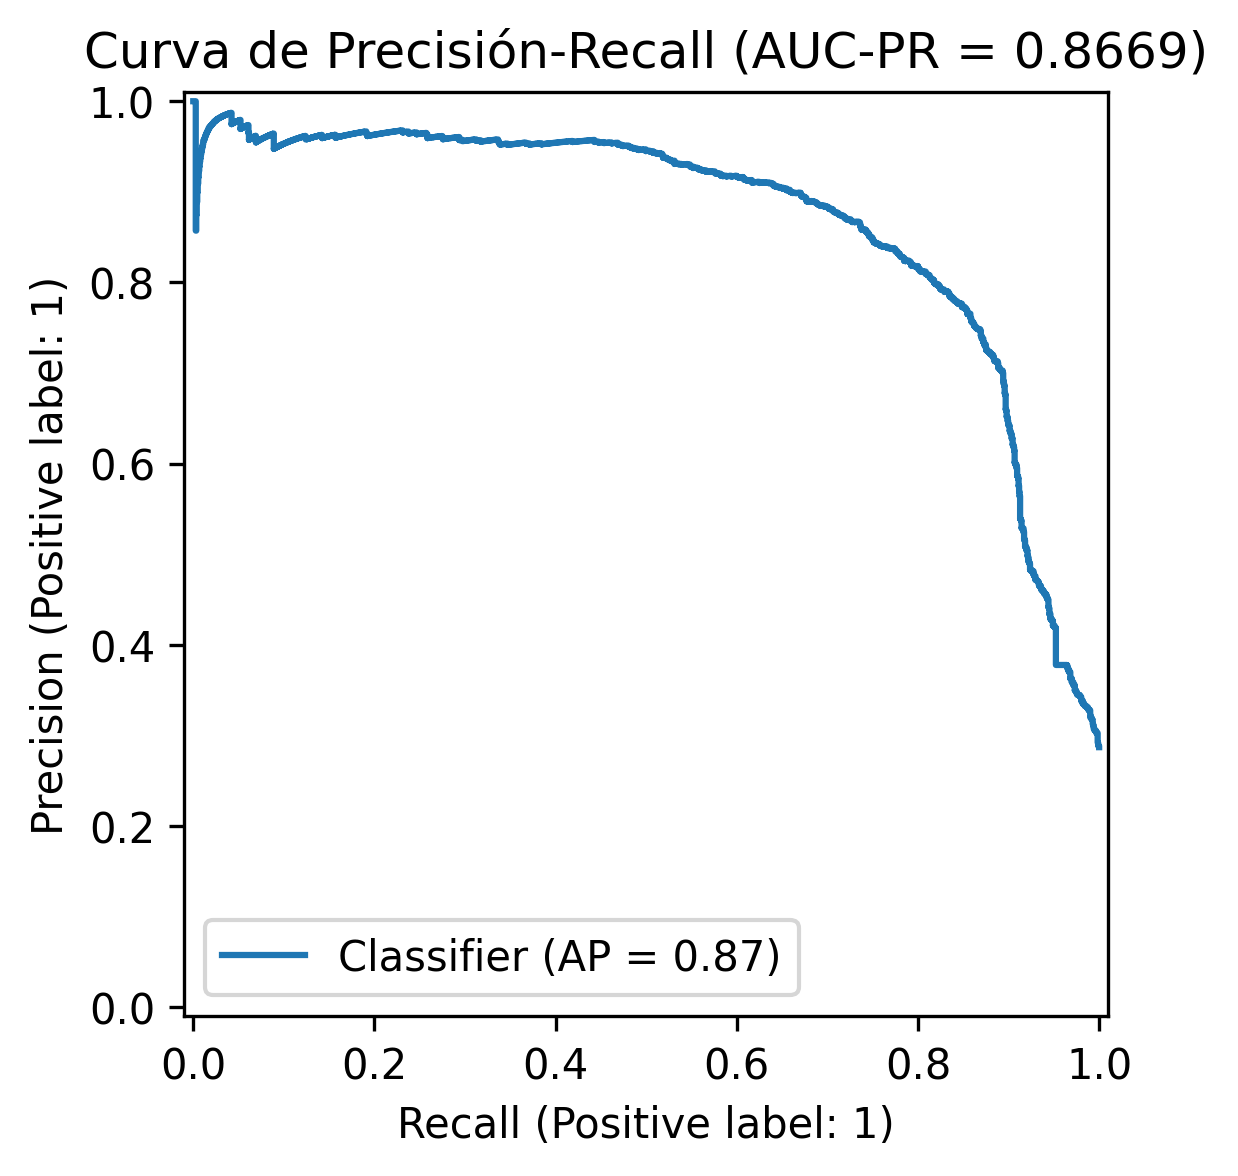
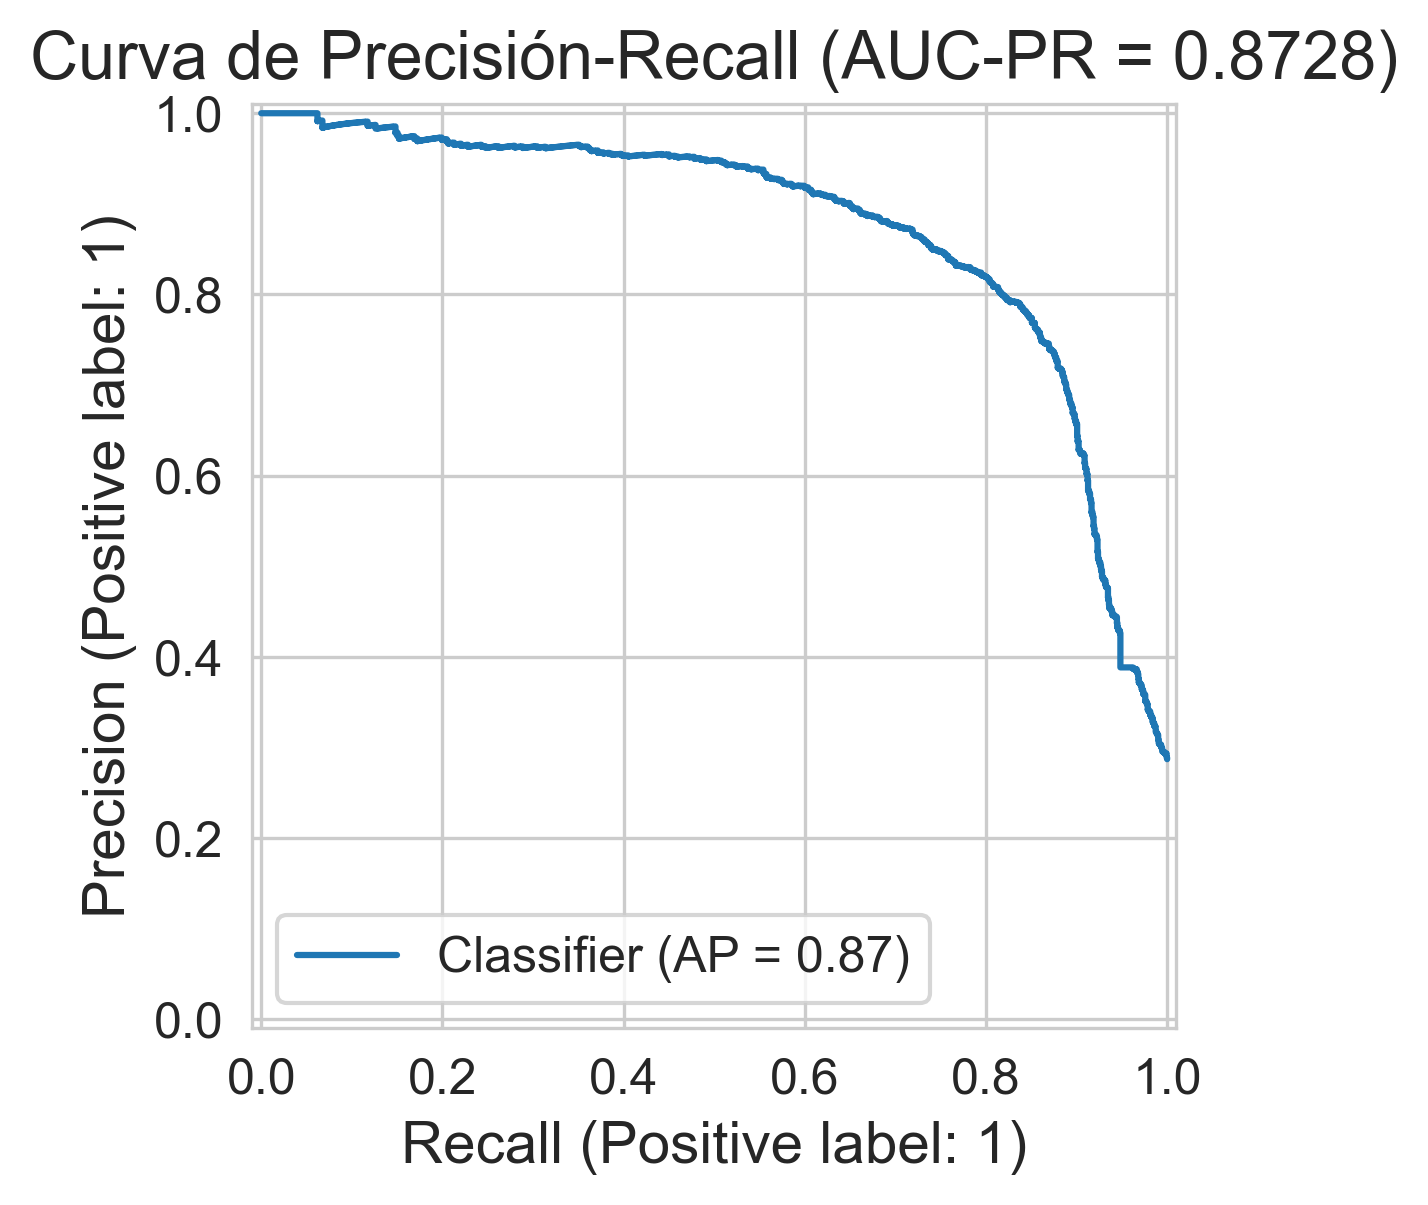
graphs

diff --git a/4. Graficos.py b/4. Graficos.py
@@ -1,0 +1,311 @@
+# 1. Importaciones
+import numpy as np
+import pandas as pd
+import matplotlib.pyplot as plt
+import seaborn as sns
+
+from sklearn.model_selection import train_test_split
+from sklearn.preprocessing import QuantileTransformer
+from sklearn.decomposition import PCA
+from sklearn.metrics import (
+    average_precision_score, confusion_matrix, classification_report,
+    PrecisionRecallDisplay, precision_recall_curve, f1_score, recall_score, precision_score,
+    RocCurveDisplay, roc_auc_score, roc_curve, auc,
+)
+
+
+import tensorflow as tf
+import tensorflow.keras.backend as K
+from tensorflow.keras.models import Sequential
+from tensorflow.keras.layers import Dense, Dropout, BatchNormalization, Activation
+from tensorflow.keras.optimizers import Adam, RMSprop, SGD, Nadam
+
+from imblearn.combine import SMOTETomek
+
+# 2. Configuración Inicial y Datos
+tf.random.set_seed(42)
+np.random.seed(42)
+
+url = 'https://raw.githubusercontent.com/julihdez36/Predictive-maintenance/refs/heads/main/Data/df_entrenamiento_final.csv'
+df_final = pd.read_csv(url)
+X = df_final.drop(columns=['failed'])
+y = df_final['failed']
+
+X_train_full, X_test, y_train_full, y_test = train_test_split(X, y, test_size=0.2, stratify=y, random_state=42)
+
+# 3. Funciones de Preprocesamiento y PCA
+def preprocesar_datos_con_pca(X_train_scaled, y_train, pca, aplicar_smote=False):
+    X_train_reducido = pca.transform(X_train_scaled)
+    if aplicar_smote:
+        smote_tomek = SMOTETomek(sampling_strategy=1, random_state=42)
+        X_train_reducido, y_train_bal = smote_tomek.fit_resample(X_train_reducido, y_train)
+    else:
+        y_train_bal = y_train
+    return X_train_reducido, y_train_bal
+
+def entrenar_pca(X_train_scaled, variance_threshold=0.95):
+    pca = PCA(n_components=variance_threshold, random_state=42)
+    pca.fit(X_train_scaled)
+    return pca
+
+# 4. Callback OneCycleLR (igual que en Parte 1)
+class OneCycleLR(tf.keras.callbacks.Callback):
+    def __init__(self, max_lr, epochs, start_lr=None, end_lr=None):
+        super(OneCycleLR, self).__init__()
+        self.epochs = epochs
+        self.max_lr = max_lr
+        self.start_lr = start_lr if start_lr is not None else max_lr / 10.0
+        self.end_lr = end_lr if end_lr is not None else self.start_lr / 100.0
+
+    def on_epoch_begin(self, epoch, logs=None):
+        if epoch < self.epochs * 0.3:
+            lr = self.start_lr + (self.max_lr - self.start_lr) * (epoch / (self.epochs * 0.3))
+        else:
+            lr = self.max_lr - (self.max_lr - self.end_lr) * ((epoch - self.epochs * 0.3) / (self.epochs * 0.7))
+        if hasattr(self.model.optimizer.learning_rate, 'assign'):
+            self.model.optimizer.learning_rate.assign(lr)
+        else:
+            tf.keras.backend.set_value(self.model.optimizer.learning_rate, lr)
+        print(f"\nEpoch {epoch+1}: OneCycleLR setting learning rate to {lr:.6f}")
+
+# 5. Función de Pérdida Focal
+def focal_loss(alpha=0.95, gamma=5):
+    def loss(y_true, y_pred):
+        y_true = K.cast(y_true, K.floatx())
+        epsilon = K.epsilon()
+        y_pred = K.clip(y_pred, epsilon, 1.0 - epsilon)
+        bce = K.binary_crossentropy(y_true, y_pred)
+        p_t = y_true * y_pred + (1 - y_true) * (1 - y_pred)
+        focal_factor = K.pow(1.0 - p_t, gamma)
+        alpha_factor = y_true * alpha + (1 - y_true) * (1 - alpha)
+        return K.mean(alpha_factor * focal_factor * bce)
+    return loss
+
+# 6. Arquitectura del Modelo
+def create_model(best_config, input_dim):
+    model = Sequential()
+    num_layers = best_config['num_layers']
+    lr = float(best_config['learning_rate'])
+    l1_val = best_config.get('l1', 0.0) if best_config.get('use_l1', False) else 0.0
+    l2_val = best_config.get('l2', 0.0) if best_config.get('use_l2', False) else 0.0
+    regularizer = tf.keras.regularizers.l1_l2(l1=l1_val, l2=l2_val)
+    
+    for i in range(num_layers):
+        units = best_config[f"units_{i+1}"]
+        activation = best_config[f"activation_{i+1}"]
+        if i == 0:
+            model.add(Dense(units, kernel_regularizer=regularizer, input_shape=(input_dim,), use_bias=False))
+        else:
+            model.add(Dense(units, kernel_regularizer=regularizer, use_bias=False))
+        model.add(BatchNormalization())
+        model.add(Activation(activation))
+        if best_config["dropout"] > 0:
+            model.add(Dropout(best_config["dropout"]))
+    model.add(Dense(1, activation='sigmoid'))
+    
+    optimizers = {
+        'adam': Adam(learning_rate=lr),
+        'rmsprop': RMSprop(learning_rate=lr),
+        'sgd': SGD(learning_rate=lr, momentum=0.9, nesterov=True)
+    }
+    optimizer = optimizers.get(best_config['optimizer'].lower(), Adam(learning_rate=lr))
+    model.compile(
+        optimizer=optimizer,
+        loss=focal_loss(alpha= 0.95, gamma= 5),
+        metrics=[tf.keras.metrics.AUC(name='auc_pr', curve='PR')]
+    )
+    return model
+
+def find_best_threshold(y_true, y_pred):
+    precision, recall, thresholds = precision_recall_curve(y_true, y_pred)
+    f1_scores = 2 * (precision * recall) / (precision + recall + 1e-8)
+    return thresholds[np.nanargmax(f1_scores)]
+
+# 7. Función para Entrenar el Modelo Final con la Mejor Configuración
+def entrenar_modelo_con_pca(best_config, X_train_full, y_train_full, variance_threshold=0.95):
+    X_train_split, X_val_split, y_train_split, y_val_split = train_test_split(
+        X_train_full, y_train_full, test_size=0.1, stratify=y_train_full, random_state=42
+    )
+    
+    smote_tomek = SMOTETomek(sampling_strategy=1, random_state=42) ###################################
+    X_train_bal, y_train_bal = smote_tomek.fit_resample(X_train_split, y_train_split)
+    
+    scaler = QuantileTransformer(output_distribution='normal', random_state=42)
+    scaler.fit(X_train_bal)
+    X_train_scaled = scaler.transform(X_train_bal)
+    X_val_scaled = scaler.transform(X_val_split)
+    
+    pca = entrenar_pca(X_train_scaled, variance_threshold)
+    X_train_reducido, y_train_final = preprocesar_datos_con_pca(X_train_scaled, y_train_bal, pca, aplicar_smote=False)
+    X_val_reducido = pca.transform(X_val_scaled)
+    
+    input_dim = X_train_reducido.shape[1]
+    model = create_model(best_config, input_dim=input_dim)
+    
+    callbacks = [
+        tf.keras.callbacks.EarlyStopping(monitor='val_auc_pr', patience=10, restore_best_weights=True, mode='max'),
+        OneCycleLR(max_lr=best_config['learning_rate'] * 10, epochs=100)
+    ]
+    
+    class_weights = {0: 1, 1: 10}
+    model.fit(
+        X_train_reducido, y_train_final,
+        validation_data=(X_val_reducido, y_val_split),
+        epochs=100,
+        batch_size=best_config["batch_size"],
+        verbose=1,
+        callbacks=callbacks,
+        class_weight=class_weights
+    )
+    
+    y_val_pred = model.predict(X_val_reducido).ravel()
+    best_threshold = find_best_threshold(y_val_split, y_val_pred)
+    
+    return model, scaler, pca, best_threshold
+
+# 8. Función para Evaluar el Modelo Final
+
+
+def evaluar_modelo_con_pca(model, pca, scaler, X_test, y_test, best_threshold):
+    # Transformación de los datos
+    X_test_scaled = scaler.transform(X_test)
+    X_test_reducido = pca.transform(X_test_scaled)
+    
+    # Predicciones
+    y_pred_prob = model.predict(X_test_reducido).ravel()
+    y_pred = (y_pred_prob >= best_threshold).astype(int)
+
+    # Métricas
+    auc_pr = average_precision_score(y_test, y_pred_prob)
+    precision = precision_score(y_test, y_pred)
+    recall = recall_score(y_test, y_pred)
+    f1 = f1_score(y_test, y_pred)
+    
+    # Imprimir resultados
+    print(f"AUC-PR: {auc_pr:.4f}")
+    print(f"Precision: {precision:.4f}, Recall: {recall:.4f}, F1-score: {f1:.4f}")
+    print(classification_report(y_test, y_pred))
+    
+    # Graficar la curva de Precisión-Recall
+    plt.figure(figsize=(6, 6))
+    PrecisionRecallDisplay.from_predictions(y_test, y_pred_prob)
+    plt.title(f"Curva de Precisión-Recall (AUC-PR = {auc_pr:.4f})")
+    plt.savefig("precision_recall_curve.png", dpi=300, bbox_inches='tight')
+    plt.show()
+    
+    # Devolver todas las variables importantes
+    return {
+        "Etiquetas reales": y_test,
+        "Probabilidades": y_pred_prob,
+        "Predicciones": y_pred
+    }
+
+    
+best_config = {
+    "activation_1": "tanh",
+    "batch_size": 32,
+    "dropout": 0.0540769997851,
+    "learning_rate": 0.0012889055447,
+    "num_layers": 3,
+    "optimizer": "rmsprop", 
+    "units_1": 11,
+    "use_l1": True,
+    "use_l2": True,
+    "activation_2": "swish",
+    "activation_3": "relu",
+    "units_2": 225,
+    "units_3": 27
+  }
+
+
+if __name__ == "__main__":
+    # Entrenar el modelo
+    final_model, scaler, pca, threshold = entrenar_modelo_con_pca(best_config, X_train_full, y_train_full, variance_threshold=0.95)
+
+    # Evaluar en el conjunto de prueba
+    resultados_modelo = evaluar_modelo_con_pca(final_model, pca, scaler, X_test, y_test, threshold)
+
+    # Extraer las variables necesarias para los gráficos
+    y_true = resultados_modelo["Etiquetas reales"]
+    y_pred_prob = resultados_modelo["Probabilidades"]
+    y_pred = resultados_modelo["Predicciones"]
+
+
+
+##########################################################
+# Graficos
+##########################################################
+
+sns.set_style("whitegrid")
+plt.rcParams.update({'font.size': 12, 'axes.labelsize': 14, 'axes.titlesize': 16})
+
+## 1. CURVA ROC
+def graficar_roc(y_true, y_pred_prob):
+    fpr, tpr, _ = roc_curve(y_true, y_pred_prob)
+    roc_auc = auc(fpr, tpr)
+
+    plt.figure(figsize=(7, 6))
+    plt.plot(fpr, tpr, color='blue', lw=2, label=f'AUC = {roc_auc:.3f}')
+    plt.plot([0, 1], [0, 1], color='gray', linestyle='--')
+    plt.xlabel("Tasa de Falsos Positivos (FPR)")
+    plt.ylabel("Tasa de Verdaderos Positivos (TPR)")
+    plt.title("Curva ROC")
+    plt.legend(loc="lower right")
+    plt.show()
+
+## 2. CURVA PRECISION-RECALL
+def graficar_pr(y_true, y_pred_prob):
+    precision, recall, _ = precision_recall_curve(y_true, y_pred_prob)
+    auc_pr = average_precision_score(y_true, y_pred_prob)
+
+    plt.figure(figsize=(7, 6))
+    plt.plot(recall, precision, color='green', lw=2, label=f"AUC-PR = {auc_pr:.3f}")
+    plt.xlabel("Recall")
+    plt.ylabel("Precision")
+    plt.title("Curva Precision-Recall")
+    plt.legend(loc="upper right")
+    plt.show()
+
+## 3. MATRIZ DE CONFUSIÓN
+def graficar_matriz_confusion(y_true, y_pred):
+    cm = confusion_matrix(y_true, y_pred)
+    
+    plt.figure(figsize=(6, 5))
+    sns.heatmap(cm, annot=True, fmt="d", cmap="Blues", xticklabels=["Negativo", "Positivo"], yticklabels=["Negativo", "Positivo"])
+    plt.xlabel("Predicción")
+    plt.ylabel("Real")
+    plt.title("Matriz de Confusión")
+    plt.show()
+
+## 4. HISTOGRAMA DE PROBABILIDADES CON EL UMBRAL
+    
+def graficar_histograma_probabilidades(y_true, y_pred_prob, threshold):
+    plt.figure(figsize=(8, 6))
+
+    # Filtrar las probabilidades por clase
+    sns.histplot(y_pred_prob[y_true == 0], bins=20, kde=True, color="blue", label="Clase Negativa (0)", alpha=0.5)
+    sns.histplot(y_pred_prob[y_true == 1], bins=20, kde=True, color="orange", label="Clase Positiva (1)", alpha=0.5)
+
+    # Línea del umbral
+    plt.axvline(threshold, color='red', linestyle='--', label=f'Umbral ({threshold:.2f})')
+
+    # Configuración del gráfico
+    plt.xlabel("Probabilidad Predicha")
+    plt.ylabel("Frecuencia")
+    plt.title("Distribución de Probabilidades por Clase")
+    plt.legend()
+    plt.show()
+
+    
+    
+
+# Ejecutar funciones
+graficar_roc(y_true, y_pred_prob)
+graficar_pr(y_true, y_pred_prob)
+graficar_matriz_confusion(y_true, y_pred)
+graficar_histograma_probabilidades(y_true, y_pred_prob, threshold)
+
+
+print(classification_report(y_true, y_pred))
+
+
